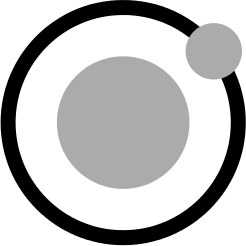
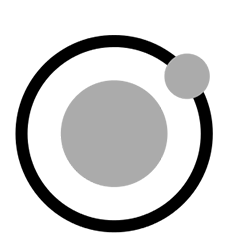
Cleaned up mascot images and added some unnecessary animation

diff --git a/css/main.css b/css/main.css
@@ -1,3 +1,20 @@
+@-webkit-keyframes spin {
+	0% { -webkit-transform: rotate(0deg);}
+	100% { -webkit-transform: rotate(360deg);}
+}
+@-moz-keyframes spin {
+	0% { -webkit-transform: rotate(0deg);}
+	100% { -webkit-transform: rotate(360deg);}
+}
+@-o-keyframes spin {
+	0% { -webkit-transform: rotate(0deg);}
+	100% { -webkit-transform: rotate(360deg);}
+}
+@keyframes spin {
+	0% { -webkit-transform: rotate(0deg);}
+	100% { -webkit-transform: rotate(360deg);}
+}
+
 body {
 	background-color: #b6bcc9;
 	font-family: 'Open Sans', sans-serif;
@@ -23,7 +40,7 @@ a {
 
 h1 {
 	font-family: 'Josefin Slab', serif;
-	font-size: 5.4em;
+	font-size: 5.7em;
 	font-weight: 400;
 	margin-bottom: .2em;
 	text-transform: uppercase;
@@ -34,12 +51,36 @@ p {
 	margin-bottom: 3em;
 }
 
-.mascot {
-	margin: 0 1.5em;
+.mascot-wrapper {
+	display: inline-block;
+	position: relative;
 }
 
-.mascot-patternlab {
-	width: 13.375em;
+.mascot-wrapper img:hover {
+	-webkit-animation: spin 0.5s backwards linear;
+	-moz-animation: spin 0.5s backwards linear;
+	-o-animation: spin 0.5s backwards linear;
+	animation: spin 0.5s backwards linear;
+}
+
+.yeoman-label,
+.patternlab-label {
+	color: white;
+	font-family: 'Rock Salt', cursive;
+	margin: 0;
+	position: absolute;
+}
+
+.yeoman-label {
+	left: -40px;
+	-webkit-transform: rotate(-37deg);
+	top: -10px;
+}
+
+.patternlab-label {
+	right: -60px;
+	-webkit-transform: rotate(37deg);
+	top: 15px;	
 }
 
 .button-install {

diff --git a/index.html b/index.html
@@ -6,6 +6,7 @@
 	<meta name="viewport" content="width=device-width, maximum-scale=1.0, minimum-scale=1.0, user-scalable=0" />
 	
 	<link rel="stylesheet" href="css/normalize.css">
+	<link href='http://fonts.googleapis.com/css?family=Rock+Salt' rel='stylesheet' type='text/css'>
 	<link href='http://fonts.googleapis.com/css?family=Open+Sans' rel='stylesheet' type='text/css'>
 	<link href='http://fonts.googleapis.com/css?family=Josefin+Slab:300,400,700' rel='stylesheet' type='text/css'>
 	<link rel="stylesheet" href="css/main.css">
@@ -14,9 +15,13 @@
 </head>
 <body>
 	<div class="content top-wrapper">
-		<img class="mascot mascot-yeoman" src="images/yeoman.png" alt="Howdy!">
-		<img class="mascot mascot-patternlab" src="images/patternlab.png" alt="Time is a flat circle.">
-		<h1>Yeolab</h1>
+		<div class="mascot-wrapper">
+			<img class="mascot mascot-yeoman" src="images/yeoman.png" alt="Howdy!">
+			<p class="yeoman-label">Yeoman!</p>
+			<img class="mascot mascot-patternlab" src="images/patternlab.png" alt="Time is a flat circle.">
+			<p class="patternlab-label">Pattern Lab!</p>
+		</div>
+		<h1>YeoLab</h1>
 		<p>Like peanut butter and jelly, but less sticky.</p>
 		<a class="button-install" href="https://github.com/degdigital/generator-patternlab">Install</a>
 	</div>
